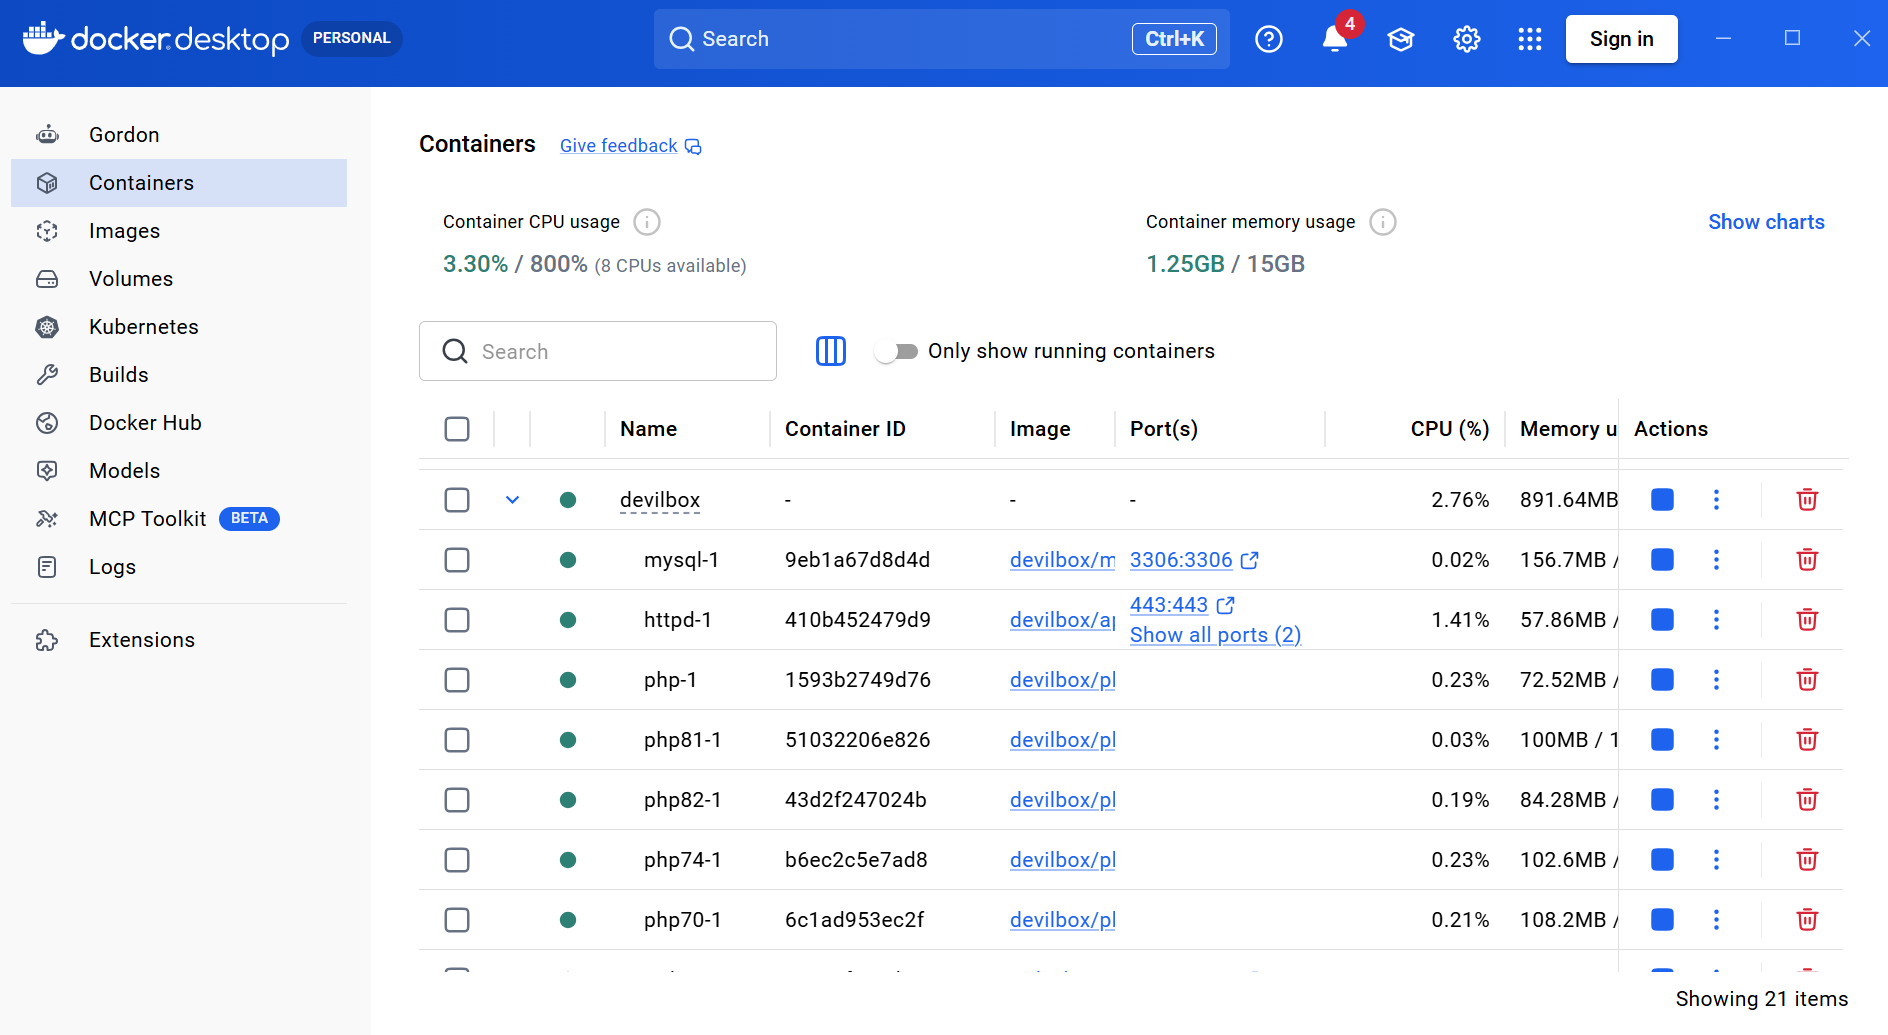
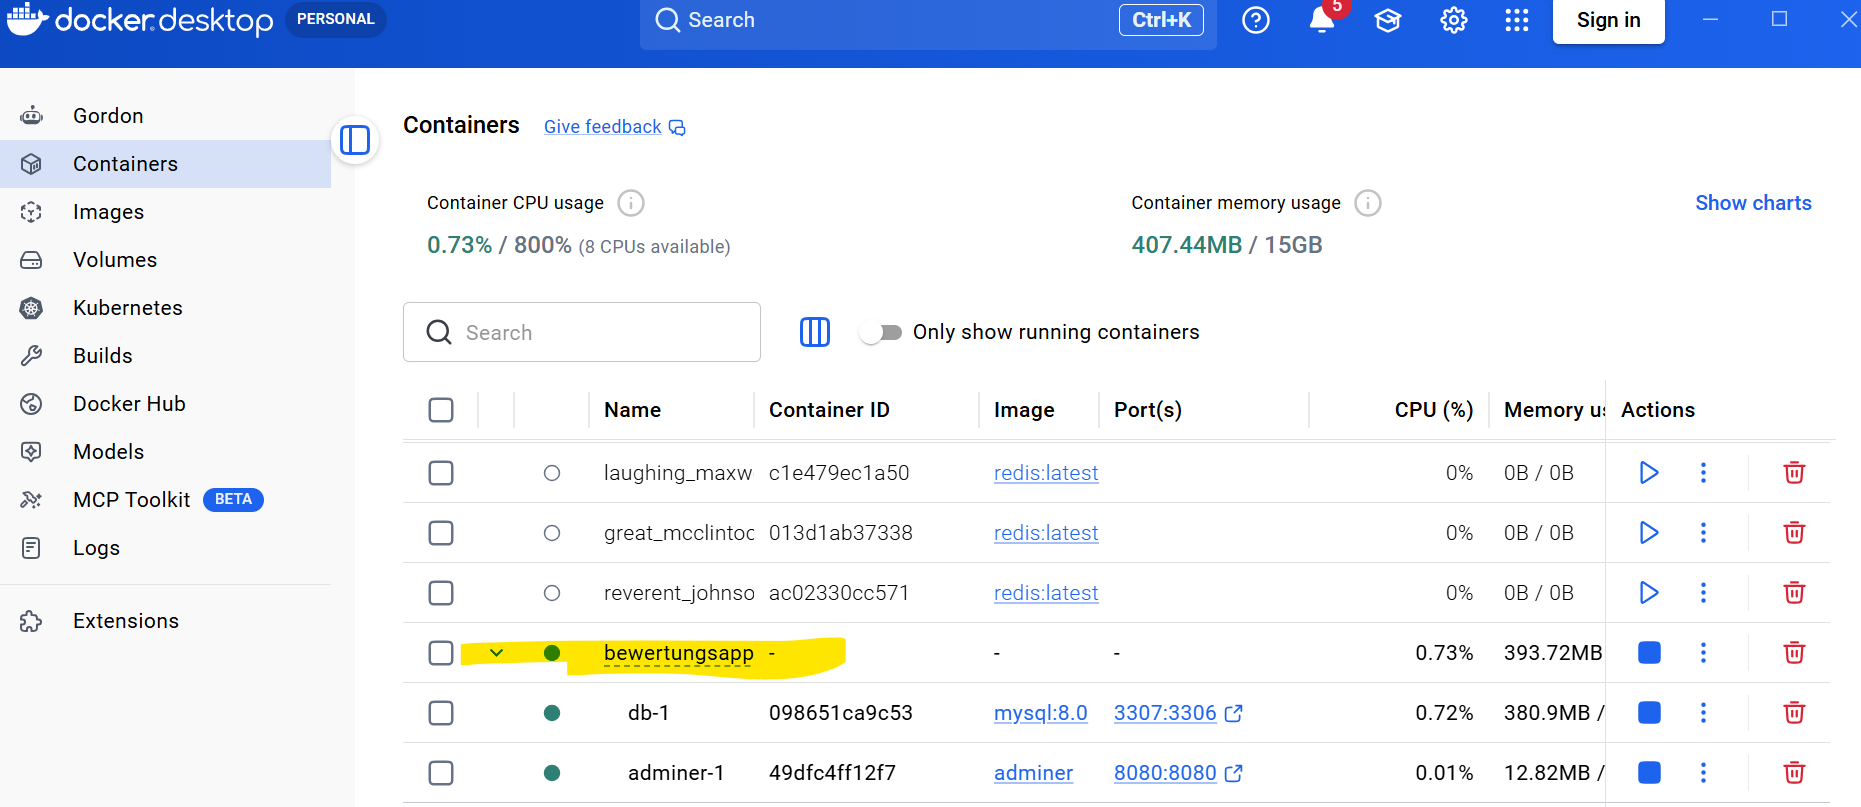
Einheit 2: Datenmodell Team, Member, Project

diff --git a/backend/migrations/20260930062605-create-project.js b/backend/migrations/20260930062605-create-project.js
@@ -1,0 +1,37 @@
+'use strict';
+/** @type {import('sequelize-cli').Migration} */
+module.exports = {
+  async up(queryInterface, Sequelize) {
+    await queryInterface.createTable('Projects', {
+      id: {
+        allowNull: false,
+        autoIncrement: true,
+        primaryKey: true,
+        type: Sequelize.INTEGER
+      },
+      teamId: {
+        type: Sequelize.INTEGER
+      },
+      titel: {
+        type: Sequelize.STRING
+      },
+      beschreibung: {
+        type: Sequelize.TEXT
+      },
+      praesentiertAm: {
+        type: Sequelize.DATE
+      },
+      createdAt: {
+        allowNull: false,
+        type: Sequelize.DATE
+      },
+      updatedAt: {
+        allowNull: false,
+        type: Sequelize.DATE
+      }
+    });
+  },
+  async down(queryInterface, Sequelize) {
+    await queryInterface.dropTable('Projects');
+  }
+};

diff --git a/backend/migrations/20260930062508-create-member.js b/backend/migrations/20260930062508-create-member.js
@@ -1,0 +1,34 @@
+'use strict';
+/** @type {import('sequelize-cli').Migration} */
+module.exports = {
+  async up(queryInterface, Sequelize) {
+    await queryInterface.createTable('Members', {
+      id: {
+        allowNull: false,
+        autoIncrement: true,
+        primaryKey: true,
+        type: Sequelize.INTEGER
+      },
+      teamId: {
+        type: Sequelize.INTEGER
+      },
+      vorname: {
+        type: Sequelize.STRING
+      },
+      nachname: {
+        type: Sequelize.STRING
+      },
+      createdAt: {
+        allowNull: false,
+        type: Sequelize.DATE
+      },
+      updatedAt: {
+        allowNull: false,
+        type: Sequelize.DATE
+      }
+    });
+  },
+  async down(queryInterface, Sequelize) {
+    await queryInterface.dropTable('Members');
+  }
+};

diff --git a/backend/migrations/20260930062452-create-team.js b/backend/migrations/20260930062452-create-team.js
@@ -1,0 +1,31 @@
+'use strict';
+/** @type {import('sequelize-cli').Migration} */
+module.exports = {
+  async up(queryInterface, Sequelize) {
+    await queryInterface.createTable('Teams', {
+      id: {
+        allowNull: false,
+        autoIncrement: true,
+        primaryKey: true,
+        type: Sequelize.INTEGER
+      },
+      name: {
+        type: Sequelize.STRING
+      },
+      klasse: {
+        type: Sequelize.STRING
+      },
+      createdAt: {
+        allowNull: false,
+        type: Sequelize.DATE
+      },
+      updatedAt: {
+        allowNull: false,
+        type: Sequelize.DATE
+      }
+    });
+  },
+  async down(queryInterface, Sequelize) {
+    await queryInterface.dropTable('Teams');
+  }
+};

diff --git a/backend/models/project.js b/backend/models/project.js
@@ -1,0 +1,26 @@
+'use strict';
+const {
+  Model
+} = require('sequelize');
+module.exports = (sequelize, DataTypes) => {
+  class Project extends Model {
+    /**
+     * Helper method for defining associations.
+     * This method is not a part of Sequelize lifecycle.
+     * The `models/index` file will call this method automatically.
+     */
+    static associate(models) {
+      // define association here
+    }
+  }
+  Project.init({
+    teamId: DataTypes.INTEGER,
+    titel: DataTypes.STRING,
+    beschreibung: DataTypes.TEXT,
+    praesentiertAm: DataTypes.DATE
+  }, {
+    sequelize,
+    modelName: 'Project',
+  });
+  return Project;
+};

diff --git a/backend/models/member.js b/backend/models/member.js
@@ -1,0 +1,25 @@
+'use strict';
+const {
+  Model
+} = require('sequelize');
+module.exports = (sequelize, DataTypes) => {
+  class Member extends Model {
+    /**
+     * Helper method for defining associations.
+     * This method is not a part of Sequelize lifecycle.
+     * The `models/index` file will call this method automatically.
+     */
+    static associate(models) {
+      // define association here
+    }
+  }
+  Member.init({
+    teamId: DataTypes.INTEGER,
+    vorname: DataTypes.STRING,
+    nachname: DataTypes.STRING
+  }, {
+    sequelize,
+    modelName: 'Member',
+  });
+  return Member;
+};

diff --git a/backend/models/team.js b/backend/models/team.js
@@ -1,0 +1,24 @@
+'use strict';
+const {
+  Model
+} = require('sequelize');
+module.exports = (sequelize, DataTypes) => {
+  class Team extends Model {
+    /**
+     * Helper method for defining associations.
+     * This method is not a part of Sequelize lifecycle.
+     * The `models/index` file will call this method automatically.
+     */
+    static associate(models) {
+      // define association here
+    }
+  }
+  Team.init({
+    name: DataTypes.STRING,
+    klasse: DataTypes.STRING
+  }, {
+    sequelize,
+    modelName: 'Team',
+  });
+  return Team;
+};

diff --git a/docs/diagramm/planungsvorlage.md b/docs/diagramm/planungsvorlage.md
@@ -1,0 +1,51 @@
+# Planungsvorlage – Datenmodell Einheit 2 (Team, Member, Project)
+
+## Team
+
+| Spaltenname | Datentyp | Constraint |
+|---|---|---|
+| id | INTEGER | Primärschlüssel, automatisch |
+| name | STRING | — |
+| klasse | STRING | — |
+
+**Beispieldaten Team**
+
+| id | name | klasse |
+|---|---|---|
+| 1 | Scan2Order | 4a APC |
+
+## Member
+
+| Spaltenname | Datentyp | Constraint |
+|---|---|---|
+| id | INTEGER | Primärschlüssel, automatisch |
+| teamId | INTEGER | Fremdschlüssel → Team.id |
+| vorname | STRING | — |
+| nachname | STRING | — |
+
+**Beispieldaten Member**
+
+| id | teamId | vorname | nachname |
+|---|---|---|---|
+| 1 | 1 | Maria | Baumkircher |
+
+## Project
+
+| Spaltenname | Datentyp | Constraint |
+|---|---|---|
+| id | INTEGER | Primärschlüssel, automatisch |
+| teamId | INTEGER | Fremdschlüssel → Team.id |
+| titel | STRING | — |
+| beschreibung | TEXT | — |
+| praesentiertAm | DATE | — |
+
+**Beispieldaten Project**
+
+| id | teamId | titel | beschreibung | praesentiertAm |
+|---|---|---|---|---|
+| 1 | 1 | Web-App | Web-App online Bestellungen für Kleinunternehmen | 2026-09-30 |
+
+## Beziehungen
+
+- Team 1 — n Project (ein Team hat mehrere Projects)
+- Team 1 — n Member (ein Team hat mehrere Members)

diff --git a/docs/diagramm/cli-befehle.md b/docs/diagramm/cli-befehle.md
@@ -1,0 +1,32 @@
+# Einheit 2: Verwendete CLI-Befehle
+
+## Projekt aufsetzen
+
+```
+npm init -y
+npm install express cors morgan sequelize cookie-parser mysql2
+npm install --save-dev sequelize-cli
+npx sequelize-cli init
+```
+
+## Datenbank-Verbindung testen
+
+```
+npx sequelize-cli db:create
+```
+
+## Modelle generieren
+
+```
+npx sequelize-cli model:generate --name Team --attributes name:string,klasse:string
+npx sequelize-cli model:generate --name Member --attributes teamId:integer,vorname:string,nachname:string
+npx sequelize-cli model:generate --name Project --attributes teamId:integer,titel:string,beschreibung:text,praesentiertAm:date
+```
+
+## Migration ausführen
+
+```
+npx sequelize-cli db:migrate
+```
+
+Ergebnis: Tabellen `Teams`, `Members`, `Projects` wurden angelegt (siehe Screenshot in `docs/screenshots/einheit2-tabellen.png`).

diff --git a/README.md b/README.md
@@ -1,6 +1,6 @@
 # Bewertungsapp – Maria Baumkircher
 
-Klasse: <Klasse>
+Klasse: 4a APC
 
 ## Setup
 
@@ -30,9 +30,9 @@ Eigene `config/config.json` lokal aus `config/config.example.json` ableiten, nic
 
 ## Einheit 2: Datenmodell anlegen
 
-- [ ] Ausgefüllte Planungsvorlage: `docs/diagramm/planungsvorlage.html`
-- [ ] Verwendete `model:generate`-Befehle dokumentiert
-- [ ] Screenshot der angelegten Tabellen im DB-Tool: `docs/screenshots/`
+- [x] Ausgefüllte Planungsvorlage: `docs/diagramm/planungsvorlage.md`
+- [x] Verwendete `model:generate`-Befehle dokumentiert
+- [x] Screenshot der angelegten Tabellen im DB-Tool: `docs/screenshots/`
 
 ## Einheit 3: Assoziationen und weitere Modelle
 
